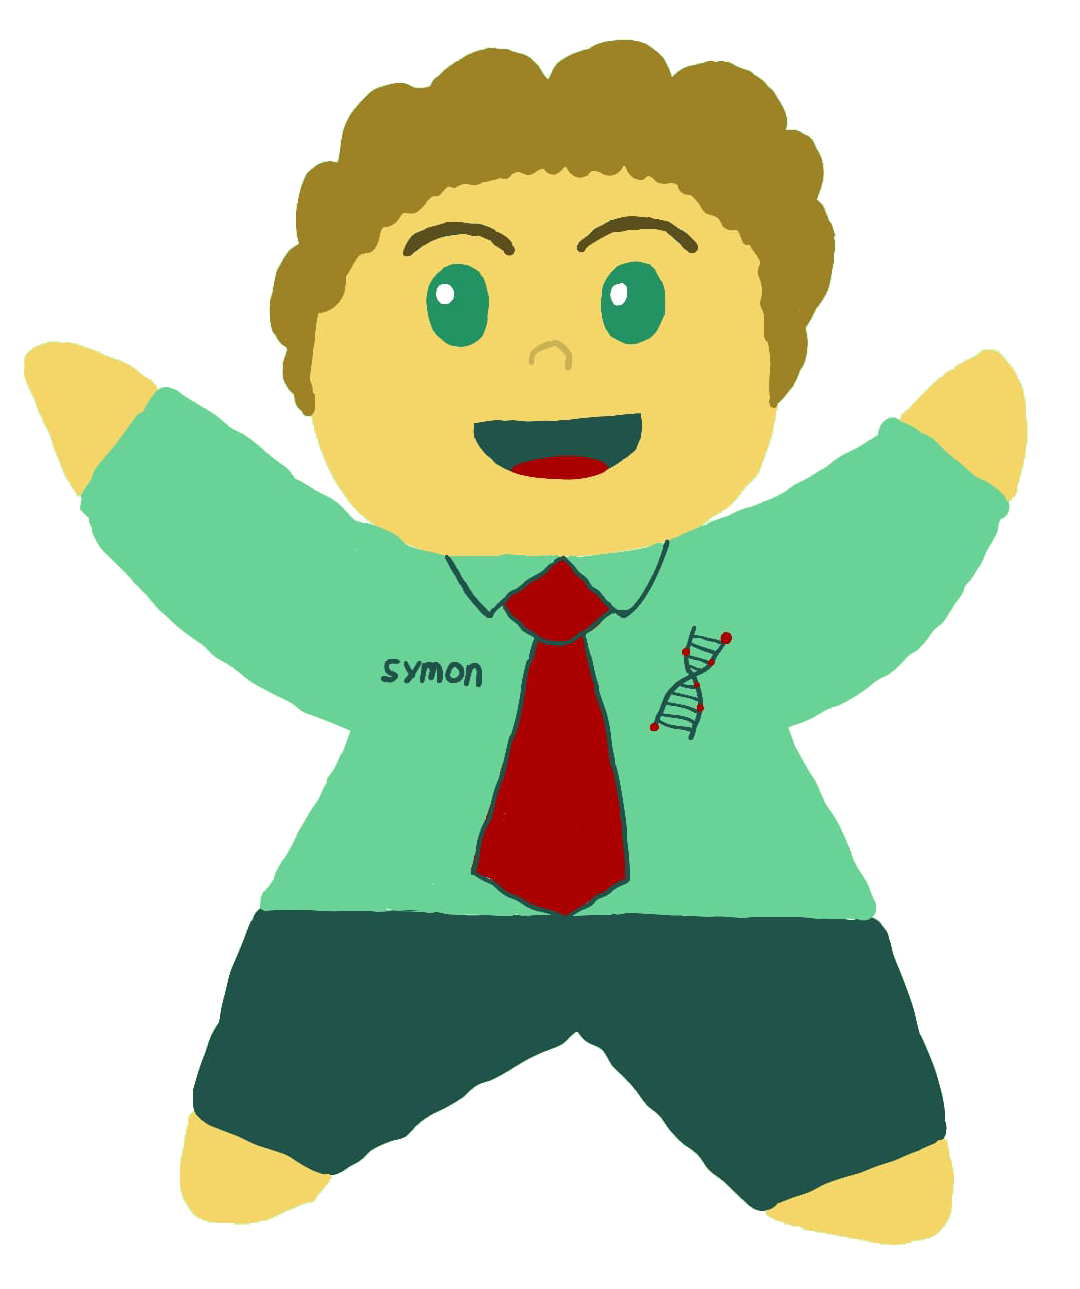
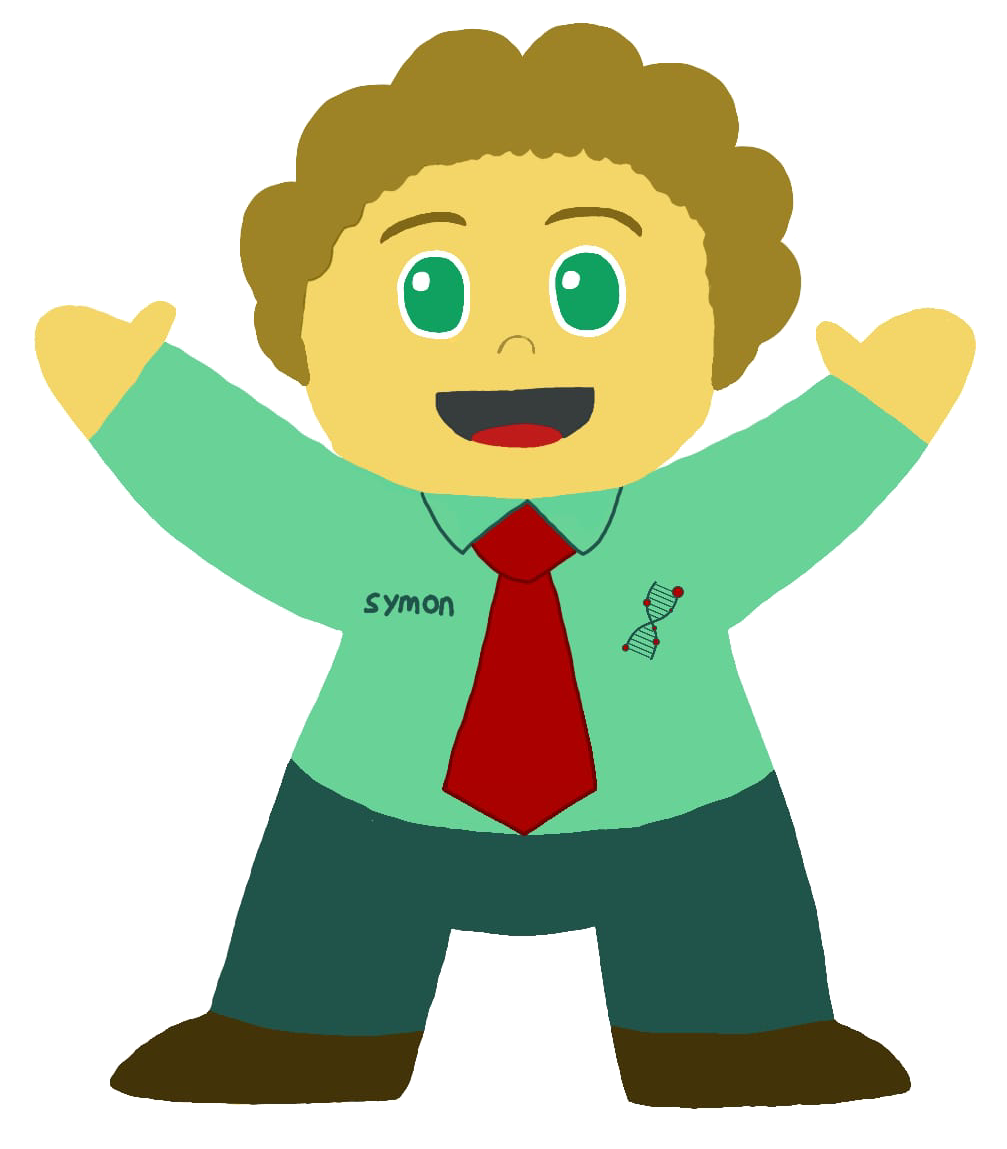
mentoring homepage

diff --git a/app/mentoring/page.tsx b/app/mentoring/page.tsx
@@ -5,26 +5,27 @@ export default function Home() {
     <div>
       <section className="banner">
         <h1 className="font-bold">Mentoring Program</h1>
-        <p>Gathering mentors and mentees across Indonesia to explore life science</p>
+        <p className="text-lg italic">Gathering mentors and mentees across Indonesia to explore life science</p>
       </section>
 
       <div className="p-4 flex flex-col gap-6">
-        <div className="flex gap-2 h-[calc(3/5*100dvh)]">
-          <div className="h-full w-full relative">
-            <Image 
-              src="/images/mentoring/mascot.png"
-              alt="Mascot"
-              layout="fill"
-              objectFit="cover"
-              className="h-full w-full"
-            />
+        <div className="flex gap-2 items-center">
+          <Image 
+            src="/images/mentoring/mascot.png"
+            alt="Mascot"
+            width={1007}
+            height={1149}
+            className="w-auto h-40"
+          />
+          <div className="max-w-[675px]">
+            <h2>What is Synbio ID's Mentoring Program?</h2>
+            <p>
+              Synbio.ID&apos;s Mentoring Program seeks and matches experts 
+              from various life science backgrounds to share their 
+              knowledge and insights with 1-3 mentees to help them 
+              pursue their careers and passions.
+            </p>
           </div>
-          <p>
-            Synbio.ID&apos;s Mentoring Program seeks and matches experts 
-            from various life science backgrounds to share their 
-            knowledge and insights with 1-3 mentees to help them 
-            pursue their careers and passions.
-          </p>
         </div>
 
         <div className="flex items-center">

diff --git a/app/components/Header.tsx b/app/components/Header.tsx
@@ -23,9 +23,42 @@ const Header = () => {
         <li className="navbar-item dropdown">
           <Link href="/mentoring">Mentoring</Link>
           <ul className="dropdown-menu">
-            <li><Link href="/mentoring">Home</Link></li>
-            <li><Link href="/">Explore Mentors</Link></li>
-            <li><Link href="/">Documentation</Link></li>
+            <li><Link href="/mentoring">
+              <div className="flex gap-2 items-center">
+                <Image 
+                  src="/images/logo/home-green.png"
+                  alt="Home"
+                  width={10}
+                  height={10}
+                  className="h-full w-auto"
+                />
+                Home
+              </div>
+            </Link></li>
+            <li><Link href="/">
+              <div className="flex gap-2 items-center">
+                <Image 
+                  src="/images/logo/people-green.png"
+                  alt="Explore Mentor"
+                  width={10}
+                  height={10}
+                  className="h-full w-auto"
+                />
+                Explore Mentor
+              </div>
+            </Link></li>
+            <li><Link href="/">
+              <div className="flex gap-2 items-center">
+                <Image 
+                  src="/images/logo/library-green.png"
+                  alt="Documentation"
+                  width={10}
+                  height={10}
+                  className="h-full w-auto"
+                />
+                Documentation
+              </div>
+            </Link></li>
           </ul>
         </li>
         

diff --git a/app/styles/globals.css b/app/styles/globals.css
@@ -5,7 +5,7 @@
 
 :root {
   --white: #ffffff;
-  --black: #1a1a1a;
+  --black: #101720;
   --synbio-green: #20544a;
   --natural-green: #4f8b69;
   --light-green: #cae9e2;
@@ -23,8 +23,8 @@
 } */
 
 body {
-  color: var(--foreground);
-  background: var(--background);
+  color: var(--black);
+  background: var(--white);
   font-family: 'Gordita';
 }
 
@@ -157,6 +157,7 @@ header {
   flex-direction: column;
   align-items: center;
   justify-content: center;
+  margin-top: 48px;
 }
 
 .box {
